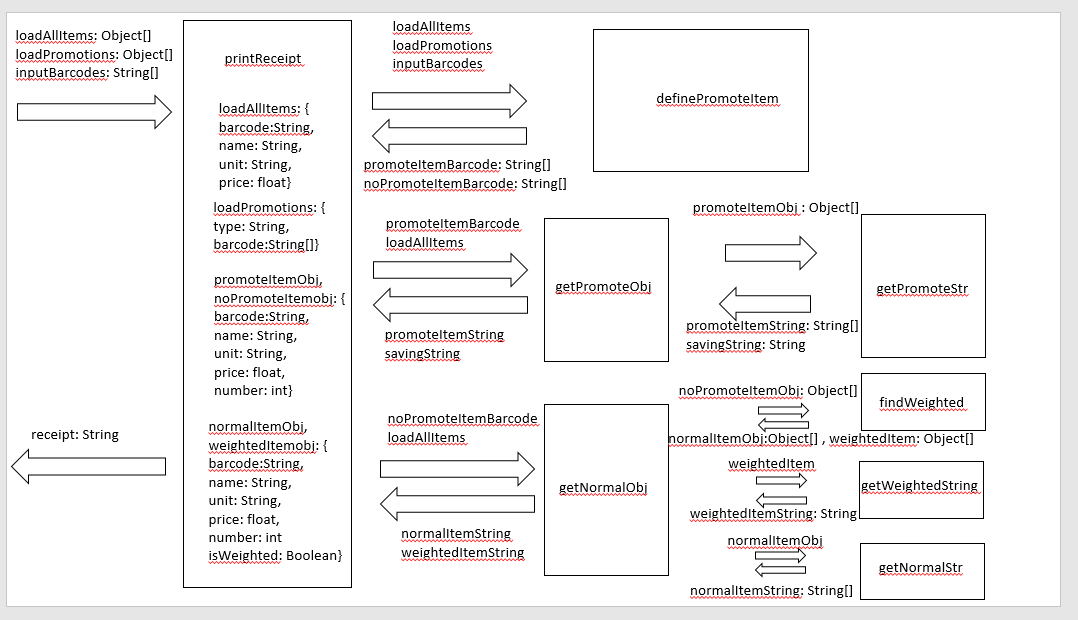
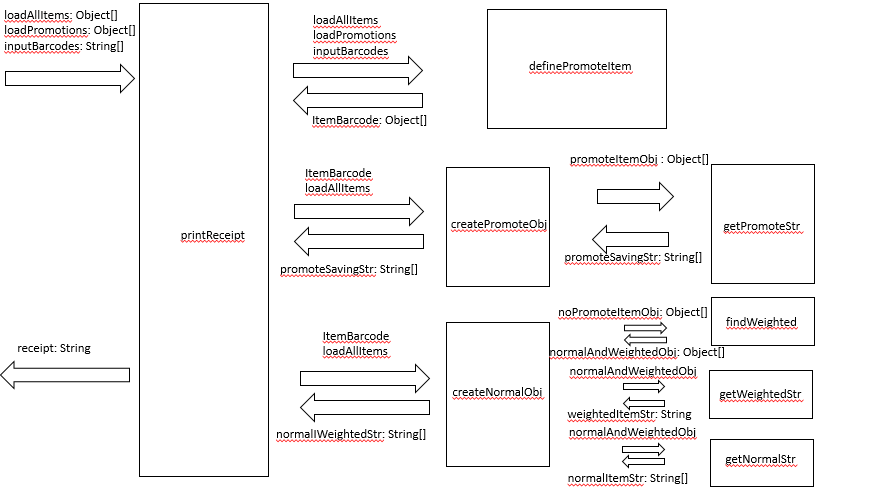
Updated diagram, object properties in pptx, declared functions.

Changed region(s): [[0.0, 0.0, 1.0, 1.0], [0.8014, 0.4286, 0.9247, 0.4898], [0.524, 0.5816, 0.6164, 0.6122]]

diff --git a/main.js b/main.js
@@ -1,39 +1,82 @@
+function printReceipt(inputBarcodes){
+	let receipt = '';
+	let allItems = loadAllItems();
+	let promotions = loadPromotions();
+	
+	return receipt
+}
+
+function definePromoteItem(allItems, promotions, inputBarcodes){
+	let itemBarcode;
+	return itemBarcode;
+}
+
+function createPromoteObj(itemBarcode, loadAllItems){
+	let promoteItemObj;
+	let promoteSavingStr = '';
+	return promoteSavingStr;
+}
+
+function getPromoteStr(promoteItemObj){
+	let promoteSavingStr = '';
+	return promoteSavingStr;
+}
+
+function createNormalObj(itemBarcode, loadAllItems){
+	let normalWeightedStr = '';
+	return normalWeightedStr;
+}
+
+function findWeighted(noPromoteItemObj){
+	return normalAndWeightedObj;
+}
+
+function getWeightedStr(normalAndWeightedObj){
+	let weightedItemStr = '';
+	return weightedItemStr;
+}
+
+function getNormalStr(normalAndWeightedObj){
+	let normalItemStr = '';
+	return normalItemStr;
+}
+
 function loadAllItems() {
   return [
     {
       barcode: 'ITEM000000',
-      name: '可口可乐',
-      unit: '瓶',
+      name: 'Coca-Cola',
+      unit: 'bottle',
       price: 3.00
     },
     {
       barcode: 'ITEM000001',
-      name: '雪碧',
-      unit: '瓶',
+      name: 'Sprite',
+      unit: 'bottle',
       price: 3.00
     },
     {
       barcode: 'ITEM000002',
-      name: '苹果',
-      unit: '斤',
+      name: 'Apple',
+      unit: 'kg',
       price: 5.50
     },
     {
       barcode: 'ITEM000003',
-      name: '荔枝',
-      unit: '斤',
+      name: 'Litchi',
+      unit: 'kg',
       price: 15.00
     },
     {
       barcode: 'ITEM000004',
-      name: '电池',
-      unit: '个',
+      name: 'Battery',
+      unit: 'box',
       price: 2.00
     },
     {
       barcode: 'ITEM000005',
-      name: '方便面',
-      unit: '袋',
+      name: 'Noodles',
+      unit: 'bag',
       price: 4.50
     }
   ];
